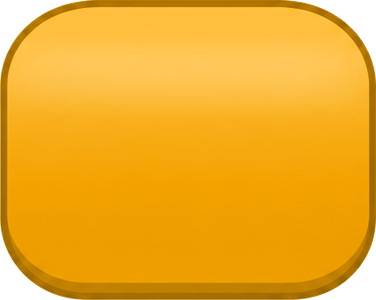
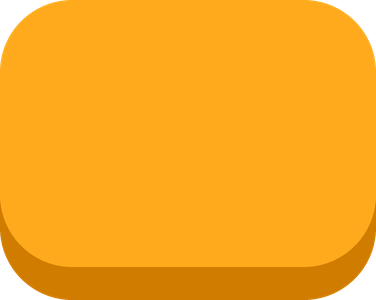
feat(ui): 按钮重新设计成平面样式：纯色面 + 底下一道粗边，字不描边
程序直接画（tools/art/flat_buttons.py），不再用 Codex 的果冻母版。

diff --git a/client/assets/scripts/ui/kit.ts b/client/assets/scripts/ui/kit.ts
@@ -47,6 +47,8 @@ export interface Ink {
   glyph: Color | null;
   /** 文字描边色（docs/03：白字加深色描边，浅色面上深色字不描边）；null = 不描边 */
   outline: Color | null;
+  /** 不描边的字下面压的一道实色（平面按钮：白字 + 一道按钮下边的深色，不描边） */
+  depth?: Color;
 }
 
 export const INK = {
@@ -58,14 +60,21 @@ export const INK = {
 
 const ON_DARK: Ink = { text: COLOR.white, accent: COLOR.yellow, glyph: null, outline: COLOR.navy };
 const ON_LIGHT: Ink = { text: INK.ink, accent: INK.amber, glyph: null, outline: null };
-const btnInk = (o: string): Ink => ({ text: COLOR.white, accent: COLOR.white, glyph: null, outline: hex(o) });
-const ON_GREEN = btnInk('#1A7412');
-const ON_BLUE = btnInk('#0F3F96');
+/** 平面按钮上的字：白字不描边，下面压一道和按钮下边同色的实色（用户 2026-11-16：按钮重新设计成平面的，字也不要粗描边） */
+const btnInk = (o: string): Ink => ({ text: COLOR.white, accent: COLOR.white, glyph: null, outline: null, depth: hex(o) });
+const ON_GREEN = btnInk('#268F1B');
+const ON_BLUE = btnInk('#1E55C4');
+/** 还是亮面质感的部件（金色卡片、图标键）：白字加深色描边 */
+const lineInk = (o: string): Ink => ({ text: COLOR.white, accent: COLOR.white, glyph: null, outline: hex(o) });
+const ON_GOLD = lineInk('#8A4F00');
+const ON_KEY_GREEN = lineInk('#1A7412');
+const ON_KEY_BLUE = lineInk('#0F3F96');
+const ON_KEY_RED = lineInk('#8A1F12');
 /** 白色果冻图标键 */
 const ON_WHITE_KEY: Ink = { text: INK.ink, accent: INK.amber, glyph: null, outline: null };
-const ON_AMBER = btnInk('#8A4F00');
-const ON_RED = btnInk('#8A1F12');
-const ON_GRAY = btnInk('#5A6880');
+const ON_AMBER = btnInk('#C47400');
+const ON_RED = btnInk('#BC3320');
+const ON_GRAY = btnInk('#7C889C');
 
 /** 部件 → 上面放的字用什么颜色 */
 const PART_INK: Record<string, Ink> = {
@@ -77,7 +86,7 @@ const PART_INK: Record<string, Ink> = {
   'kit/title_plate': ON_DARK,
   'kit/title_page': ON_DARK,
   'kit/capsule': ON_DARK,
-  'kit/cell_gold': ON_AMBER,
+  'kit/cell_gold': ON_GOLD,
   'kit/tag_red': ON_RED,
   'kit/tag_amber': ON_AMBER,
   'kit/btn_green': ON_GREEN,
@@ -85,8 +94,8 @@ const PART_INK: Record<string, Ink> = {
   'kit/btn_blue': ON_BLUE,
   'kit/btn_yellow': ON_AMBER,
   'kit/btn_gray': ON_GRAY,
-  'kit/round_green': ON_GREEN,
-  'kit/round_red': ON_RED,
+  'kit/round_green': ON_KEY_GREEN,
+  'kit/round_red': ON_KEY_RED,
   'kit/round_blue': ON_WHITE_KEY,
   // Codex 位图部件（ui/skin）
   'skin/j_btn_green': ON_GREEN,
@@ -101,11 +110,11 @@ const PART_INK: Record<string, Ink> = {
   'skin/j_inset': ON_DARK,
   'skin/j_panel': ON_DARK,
   'skin/j_row': ON_DARK,
-  'skin/j_row_gold': ON_AMBER,
+  'skin/j_row_gold': ON_GOLD,
   'skin/j_popup': ON_DARK,
-  'skin/j_key_blue': ON_BLUE,
-  'skin/j_key_green': ON_GREEN,
-  'skin/j_key_red': ON_RED,
+  'skin/j_key_blue': ON_KEY_BLUE,
+  'skin/j_key_green': ON_KEY_GREEN,
+  'skin/j_key_red': ON_KEY_RED,
 };
 
 const inks = new WeakMap<Node, Ink>();
@@ -361,6 +370,8 @@ export interface TextOpts {
 /** 描边、厚度投影各是字号的几分之一 */
 const OUTLINE_DIV = 18;
 const SHADOW_DIV = 26;
+/** 平面按钮上的字，下面那道实色是字号的几分之一 */
+const FLAT_DEPTH_DIV = 16;
 
 export function text(parent: Node | null, s: string, fontSize: number, o: TextOpts = {}): Label {
   const k = o.sharp ?? 1;
@@ -392,6 +403,12 @@ export function text(parent: Node | null, s: string, fontSize: number, o: TextOp
     l.shadowColor = depthColor(outline ?? COLOR.shadow);
     l.shadowOffset.set(0, -Math.max(1, Math.round(fontSize / SHADOW_DIV)));
     l.shadowBlur = 1;
+  } else if (!outline && ink.depth && o.shadow !== false) {
+    // 平面按钮上的字：不描边，只在下面压一道实色
+    l.enableShadow = true;
+    l.shadowColor = ink.depth;
+    l.shadowOffset.set(0, -Math.max(2, Math.round(fontSize / FLAT_DEPTH_DIV)));
+    l.shadowBlur = 0;
   }
   l.horizontalAlign =
     o.align === 'left' ? HorizontalTextAlignment.LEFT : o.align === 'right' ? HorizontalTextAlignment.RIGHT : HorizontalTextAlignment.CENTER;
@@ -468,6 +485,8 @@ export function reink(n: Node): void {
       if (ink.outline) {
         l.outlineColor = ink.outline;
         if (l.enableShadow) l.shadowColor = depthColor(ink.outline);
+      } else if (ink.depth && l.enableShadow) {
+        l.shadowColor = ink.depth;
       }
     }
     const sp = m.getComponent(Sprite);
@@ -591,8 +610,8 @@ export function button(parent: Node | null, o: BtnOpts): Btn {
   let color = o.color;
   let pressed = false;
   const row = box('row', n);
-  // 面的中心比外框中心高一点（下沿有厚度）
-  const place = () => row.setPosition(0, o.h * 0.03 - (pressed ? 2 : 0), 0);
+  // 面的中心比外框中心高半道下边（下边占按钮高的 11%，见 tools/art/flat_buttons.py）
+  const place = () => row.setPosition(0, o.h * 0.055 - (pressed ? 2 : 0), 0);
   place();
   let icon: Node | null = null;
   if (o.icon) {

diff --git a/tools/art/flat_buttons.py b/tools/art/flat_buttons.py
@@ -1,0 +1,60 @@
+#!/usr/bin/env python3
+"""平面按钮（docs/03 第 2 节，用户 2026-11-16 定）：纯色平面、圆角方块，只在下面压一道同色系的粗边，没有渐变、高光、描边。
+
+程序直接画，不经 Codex：形状规整、边缘干净，五种颜色完全一致。输出横向三宫格到 client/assets/resources/ui/skin/j_btn_*.png，
+边距写进 client/tools/art/slices_skin.json。用法：python3 tools/art/flat_buttons.py [输出目录]
+"""
+import json
+import sys
+from pathlib import Path
+
+from PIL import Image, ImageDraw
+
+REPO = Path(__file__).resolve().parents[2]
+OUT = REPO / 'client/assets/resources/ui/skin'
+SLICES = REPO / 'client/tools/art/slices_skin.json'
+
+H = 300          # 部件高（和原来的按钮一样，运行时按高度缩放）
+CAP = 186        # 左右两头各留多宽（中间 4 像素横向拉伸）
+MID = 4
+RADIUS = 0.24    # 圆角 = 按钮高的几分之几
+LIP = 0.11       # 下面那道粗边 = 按钮高的几分之几
+SS = 4           # 超采样倍数
+
+# 面的颜色、下边的颜色
+COLORS = {
+    'green': ('#3CC62B', '#268F1B'),
+    'blue': ('#3F8DFF', '#1E55C4'),
+    'amber': ('#FFAA1C', '#D07C00'),
+    'red': ('#F2553E', '#BC3320'),
+    'gray': ('#B4C0CF', '#8894A8'),
+}
+
+
+def draw(face: str, edge: str) -> Image.Image:
+    w = CAP * 2 + MID
+    W, HH = w * SS, H * SS
+    im = Image.new('RGBA', (W, HH), (0, 0, 0, 0))
+    d = ImageDraw.Draw(im)
+    lip = round(HH * LIP)
+    r = round(HH * RADIUS)
+    # 底下的粗边：整块深色圆角方块；面：同样的圆角方块，往上让出粗边的高度
+    d.rounded_rectangle((0, lip, W - 1, HH - 1), r, fill=edge)
+    d.rounded_rectangle((0, 0, W - 1, HH - 1 - lip), r, fill=face)
+    return im.resize((w, H), Image.LANCZOS)
+
+
+def main() -> None:
+    out = Path(sys.argv[1]) if len(sys.argv) > 1 else OUT
+    out.mkdir(parents=True, exist_ok=True)
+    slices = json.loads(SLICES.read_text()) if SLICES.exists() else {}
+    for name, (face, edge) in COLORS.items():
+        draw(face, edge).save(out / f'j_btn_{name}.png')
+        slices[f'j_btn_{name}'] = [0, 0, CAP, CAP]
+        print(f'  j_btn_{name}')
+    if out == OUT:
+        SLICES.write_text(json.dumps(slices, ensure_ascii=False, indent=2) + '\n')
+
+
+if __name__ == '__main__':
+    main()

diff --git a/tools/art/skin.py b/tools/art/skin.py
@@ -205,16 +205,8 @@ def main() -> None:
             slices[name] = border
         print(f'  {name}: {im.size} {border or ""}')
 
-    # 按钮：一张绿色母版转出整套语义色（docs/03 第 2 节：绿主行动、蓝次行动、琥珀广告与奖励、红危险、灰不可用）
-    (btn,) = cut(raw / 'btn.png')
-    g, border = three(btn, 300, 0.62)
-    # 2026-11-16 换成薄一版的母版（用户：原来的看着太厚重）：细描边、下沿只有一道薄厚度、没有硬高光。母版偏淡，提一点饱和度
-    g = recolor(g, 105, 105, 0.0, 1.22, 0.96)
-    save('j_btn_green', g, border)
-    save('j_btn_blue', recolor(g, 105, 216, 0.6, 1.0, 1.0), border)
-    save('j_btn_amber', recolor(g, 105, 40, -0.55, 1.0, 1.06, 0.85), border)
-    save('j_btn_red', recolor(g, 105, 4, -0.4, 0.92, 1.04, 0.9), border)
-    save('j_btn_gray', recolor(g, 105, 214, 0.2, 0.16, 0.9), border)
+    # 按钮不在这里出：2026-11-16 起是程序画的平面按钮，见 tools/art/flat_buttons.py（这里保存时会连同已有的边距一起写回）
+    slices.update({k: v for k, v in (json.loads(SLICES.read_text()) if SLICES.exists() else {}).items() if k.startswith('j_btn_')})
 
     # 蓝色条：顶栏、底栏、标签条
     top, tab, plate = cut(raw / 'bars.png')

diff --git a/docs/03-美术规范.md b/docs/03-美术规范.md
@@ -22,7 +22,7 @@
 |---|---|
 | 原则 | **简洁**。界面是衬托，不抢插画的戏 |
 | 主按钮 | 每屏只有一个带字的主按钮，放在下半屏拇指区；其余操作是不带字的圆形图标键，靠红点、数字角标提示 |
-| 按钮质感 | 轻一版的亮面按钮（用户 2026-11-16：原来的厚果冻按钮「太厚重、老套」）：上浅下深的柔和渐变、同色系的细描边、下沿只有一道薄厚度（约按钮高的 6%）、上三分之一一条很淡的高光带；不要硬的白色高光点和内描边。按下整体缩到 0.96 并压暗。母版 `art/raw/ui_skin/btn.png`，出图描述 `art/briefs/ui_skin/btn.txt` |
+| 按钮质感 | **平面按钮**（用户 2026-11-16 定：亮面果冻按钮和后来的薄一版都「太厚重」，不要在旧图上改，重新设计）：纯色平面的圆角方块（圆角约按钮高的 24%），没有渐变、高光、描边；只在下面压一道同色系的深色粗边（约按钮高的 11%）。按钮上的字白色、不描边，下面压一道和粗边同色的实色。按下整体缩到 0.96 并压暗。程序直接画：`python3 tools/art/flat_buttons.py`，颜色在脚本里；不是胶囊 |
 | 圆角 | 按钮、标签条、顶栏都是**圆角方块**（圆角约为高度的 28%～35%），不是胶囊；图标键是圆角方块；面板与弹窗 32 |
 | 弹窗 | 主色厚框（框内下沿同样有深色厚度）+ 奶油色 `#FFF6E3` 内容区；最多两个按钮；关闭是右上角红色圆键 |
 | 框中框 | 禁止。按钮、卡片、资源栏都不套框 |
